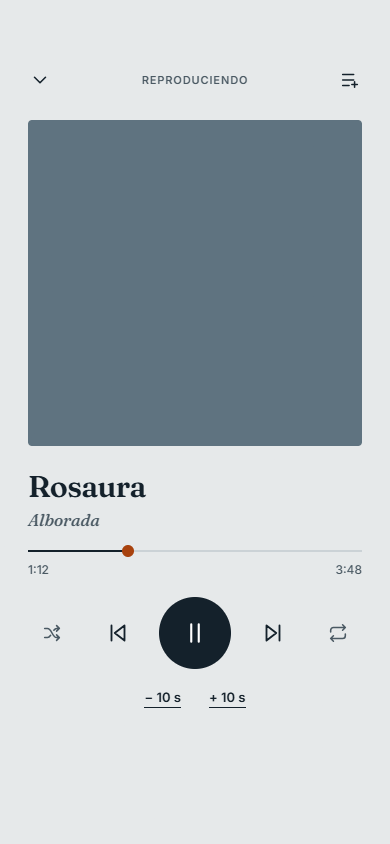
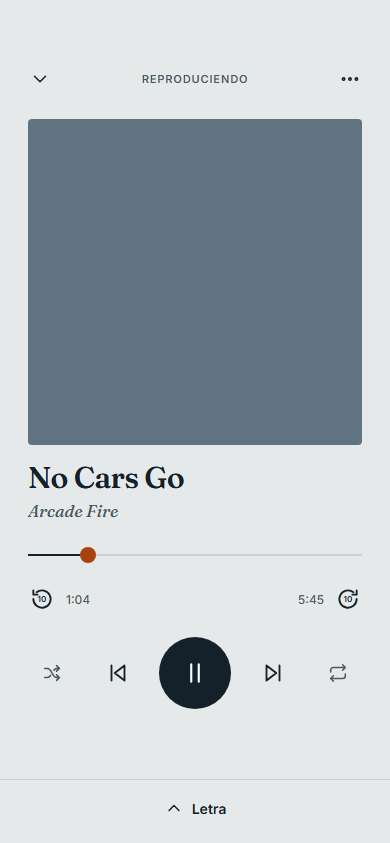
Refactor code structure for improved readability and maintainability

diff --git a/src/content/blog/musicdown-v2-expo-audio-player-spotify-likes/index.md b/src/content/blog/musicdown-v2-expo-audio-player-spotify-likes/index.md
@@ -1,9 +1,10 @@
 ---
 title: 'MusicDown, Four Months Later: One Player, Two Engines, and Buttons That Lie'
 date: 2026-11-04
+updated: 2026-11-05
 author: Cristhian Wiki
 tags: ['expo', 'react-native', 'android', 'spotify', 'design']
-excerpt: 'The MP3 downloader grew into a full music app: a redesign drawn before it was coded, Spotify likes without the Spotify API, a player that switches engines per track, and a few tricks to make the lock screen cooperate.'
+excerpt: 'The MP3 downloader grew into a full music app: a redesign drawn before it was coded, Spotify likes without the Spotify API, a player that switches engines per track, playlists, and a few tricks to make the lock screen cooperate.'
 cover: ./images/two-engines.svg
 seoTitle: 'MusicDown v2: Expo Audio Player, Spotify Likes & Widgets'
 seoDescription: 'How an Expo MP3 downloader became a full music app: Spotify likes via Spicetify, a dual-engine player, lock-screen hacks and Android home-screen widgets.'
@@ -24,11 +25,12 @@ screen, and getting a notification button to do what its icon says.
 | --- | --- | --- |
 | Tabs | Descargar · YouTube · Música · Ajustes | Música · Spotify · Descargar · Ajustes |
 | Look | System fonts, emoji icons, white | Fraunces + Inter, Feather icons, one accent color |
-| Player | Per-screen controls | One global player: mini bar, full screen, queue, shuffle, repeat |
-| Spotify | — | Liked songs synced from my laptop, playable without downloading |
+| Player | Per-screen controls | One global player: mini bar, full screen, lyrics, queue, shuffle, repeat |
+| Spotify | — | Liked songs synced both ways with my laptop, playable without downloading |
+| Library | Downloads only | Playlists and "Me Gustan", backed up to the server |
 | Lock screen | — | Media notification with previous / play / next |
-| Home screen | — | Seven widget variants |
-| Extras | — | Synced lyrics, private downloads, share as `.mp3` |
+| Home screen | — | Nine widget variants |
+| Extras | — | Cover-tinted player, battery saver, offline mode, private downloads |
 
 ## The redesign
 
@@ -93,6 +95,13 @@ It also listens for library `update` events, so a new like is synced three secon
 
 ![The Spotify tab: liked songs synced from the laptop, one of them resolving audio in the mini player](./images/screen-spotify.png)
 
+The sync now works in the other direction too. Deleting a liked song in the app calls
+`DELETE /api/spotify-likes/:id`, and the server adds the id to a list of pending removals. While
+Spotify is open, the extension checks that list every minute (and before each sync), removes
+those songs from my real Spotify library, and confirms to the server. Until that confirmation
+arrives, the server filters the removed ids out of incoming syncs, so a deleted song doesn't come
+back. Removing likes from Spotify can be turned off in the extension's settings.
+
 On the phone the list is cached for offline use. The first version stored it in AsyncStorage,
 which on Android fails to read values larger than about 2 MB, so large libraries stopped loading.
 The cache is now a JSON file in the app's document directory.
@@ -103,31 +112,38 @@ A liked song is just a title and an artist, so the app has to find the audio. I 
 behave like a downloaded song: same mini player, same queue, same lock-screen controls. A single
 `BackgroundPlayerProvider` picks an engine per track:
 
-![Player architecture: downloaded files go straight to expo-audio; Spotify likes go through the server's /api/stream when it's reachable, or a hidden YouTube WebView anchored by a looping silent audio file when it isn't](./images/two-engines.svg)
+![Player architecture: downloaded files go straight to expo-audio; Spotify likes play through a hidden YouTube WebView anchored by a looping silent audio file, or through the server's /api/stream when server streaming is enabled and reachable](./images/two-engines.svg)
 
 **Downloaded files** play through `expo-audio`.
 
-**Spotify likes** first check whether the server is up (2.5 s timeout). If it is, the app calls a
-new endpoint, `/api/stream?q=artist title`. The server runs `yt-dlp "ytsearch1:artist title"`,
-saves the audio to a disk cache keyed by a hash of the query (60 files max, oldest evicted first),
-and serves it with `res.sendFile`, which handles range requests. Concurrent requests for the same
-song share one download.
-
-Before passing the URL to the native player, the app sends its own `Range: bytes=0-0` request
-with a 70 s timeout. That makes the server finish downloading first, so the player gets an
-immediate response instead of hitting its own, shorter timeout. If `expo-audio` still hasn't
-loaded after 20 s, the track falls back to the second engine.
-
-**The second engine** is a hidden WebView. It opens `m.youtube.com/results?search_query=…`, an
-injected script picks the first real result (skipping promoted videos and Shorts), and the app
-controls the `<video>` element through two globals, `__mdSetDesired('play' | 'pause')` and
-`__mdSeek(seconds)`. Once per second the script reports position, duration and whether an ad is
-playing, which is how the mini player can show *Anuncio*.
+**Spotify likes** play by default through a hidden WebView. It opens
+`m.youtube.com/results?search_query=…`, an injected script picks the first real result (skipping
+promoted videos and Shorts), and the app controls the `<video>` element through two globals,
+`__mdSetDesired('play' | 'pause')` and `__mdSeek(seconds)`. Once per second the script reports
+position, duration and whether an ad is playing, which is how the mini player can show *Anuncio*.
 
 My first attempt hid the WebView with `width: 0` and `display: none`, and Chromium wouldn't play
 anything. It now stays mounted at 360×640 with `opacity: 0`.
 
-![The full-screen player: large cover, serif title, scrubber with a rust handle, shuffle, previous, play, next, repeat and ±10 s](./images/screen-now-playing.png)
+**Server streaming** is an option in Ajustes. When it's on and the server answers a health check
+within 2.5 s, the app calls `/api/stream?q=artist title`. The server runs
+`yt-dlp "ytsearch1:artist title"`, saves the audio to a disk cache keyed by a hash of the query
+(60 files max, oldest evicted first), and serves it with `res.sendFile`, which handles range
+requests. Concurrent requests for the same song share one download.
+
+Before passing that URL to the native player, the app sends its own `Range: bytes=0-0` request
+with a 70 s timeout. That makes the server finish downloading first, so the player gets an
+immediate response instead of hitting its own, shorter timeout. If `expo-audio` still hasn't
+loaded after 20 s, the track falls back to the WebView.
+
+![The full-screen player: large cover, serif title, scrubber with a rust handle, ±10 s buttons next to the times, shuffle, previous, play, next, repeat, and a "Letra" bar at the bottom](./images/screen-now-playing.png)
+
+The full-screen player can also tint its background with the cover's color (Ajustes → Temas).
+`coverColor.ts` decodes the image in JavaScript (`jpeg-js` or `upng-js`), takes about 4,000
+samples and picks the most saturated hue, ignoring whites, blacks and greys. Averaging the pixels
+usually gives a muddy brown. The hue is then turned into a light pastel, whatever the cover looks
+like, so the dark text stays readable. Colors for the next tracks in the queue are computed
+ahead of time, so the background can fade to the new color as soon as the song changes.
 
 ## Keeping the WebView playing with the screen off
 
@@ -169,6 +185,11 @@ and cover. The audio mode is set to `mixWithOthers` so the silent track doesn't 
 from the WebView. Both stay in sync: when one pauses, so does the other, and a pause from the lock
 screen is forwarded to the WebView with `__mdSetDesired('pause')`.
 
+The same silent player now has a second job. With the screen off, Android suspends apps that
+don't have a foreground service, which used to stall bulk downloads of liked songs. During a
+batch download, if nothing is playing, the silent track starts with a "Descargando…" media
+notification, and the app keeps running and keeps network access until the batch ends.
+
 ## Buttons that lie
 
 In this version, `expo-audio` lock-screen controls only offer **seek backward** and **seek
@@ -198,10 +219,58 @@ song when it's past five seconds, the ten seconds it already rewound don't matte
 WebView engine, the jump is detected on the silent track, because that's the one the lock screen
 controls.
 
+## Lyrics
+
+Lyrics come from [LRCLIB](https://lrclib.net), a free API with no key. YouTube titles are noisy,
+so the query strips things like `(Official Video)` or `feat.`, tries splitting "Artist - Song",
+and prefers results with timestamps and a duration close to the song's.
+
+![The lyrics view: past lines faded, the current line large and dark, upcoming lines in mid grey, with the scrubber and a mini player at the bottom](./images/screen-lyrics.png)
+
+The lyrics view uses three levels: past lines faded, the current line large and dark, upcoming
+lines in mid grey. It follows the song until you scroll; then a "Línea actual" button appears,
+and following resumes on its own six seconds after you stop touching the screen. Tapping a line
+shows a button with its timestamp (▶ 2:55) that jumps there. Lyrics without timestamps get an
+approximate time based on the line's position in the song.
+
+Two caching rules: a cancelled request is never stored, and neither is a request where every call
+failed, which means no network rather than no lyrics. In both cases the song gets another chance
+next time.
+
+## Playlists that survive a reinstall
+
+The Música tab now has a third view, **Listas**, next to "Mis descargas" and "Todas". There's an
+automatic "Me Gustan" playlist: double-tapping the cover in the player adds or removes the song
+(with an undo toast), and a rust heart next to the title shows when it's in the list.
+
+A playlist entry doesn't depend on the song's file. It's keyed by the Spotify id, the download id
+or the external file id, and stores the title, artist and cover. If a file disappears, for
+example after reinstalling, the song stays in the list. If it's a Spotify like, it can be streamed or downloaded again; if
+there's no way to play it, it's skipped.
+
+Every change is backed up to the server (`PUT /api/library-backup`, 3 s debounce, only while the
+server is reachable). On a fresh install with no local playlists, the app restores the server
+backup. Until that restore has been attempted, nothing is uploaded. Otherwise a new install would
+overwrite a good backup with an empty list on its first sync.
+
+## Doing less when nobody's looking
+
+Music often plays for hours with the screen off, so the player avoids work nobody will see:
+
+- Native player events are handled outside React: end of track and lock-screen buttons work with
+  the screen on or off, but React state only updates while the app is in the foreground, and at
+  most once per interval except for important changes (play/pause, load, end).
+- Player events arrive once per second instead of the default 500 ms.
+- **Battery saver** (on by default) updates the progress bar every 2 s and freezes animations such
+  as the equalizer icon and loading dots.
+- **Offline mode** turns off everything that uses the network: server pings, syncs, downloads,
+  lyrics lookups, cover searches and YouTube. Only what's on the phone plays.
+
 ## Home-screen widgets
 
-MusicDown includes seven widget variants built with `react-native-android-widget`: 4×2 and 4×1
-(each solid, semi-translucent or transparent) and 2×2, with Fraunces bundled for the titles.
+MusicDown has nine widget variants built with `react-native-android-widget`: a 4×1 row and a 4×2
+medium layout (each solid, semi-translucent or transparent), 4×2 and 4×4 cover layouts, and a
+2×2 square, with Fraunces bundled for the titles.
 
 Widgets run in a separate headless task, so the player publishes the current track to a small
 bridge module that re-renders them and saves the state. After a cold start, the widget shows the
@@ -213,15 +282,15 @@ once the new one is ready.
 
 ## Smaller changes
 
-- **Synced lyrics** from [LRCLIB](https://lrclib.net), a free API with no key. The query strips
-  noise like `(Official Video)` or `feat.` from YouTube titles, tries splitting "Artist - Song",
-  and prefers results with timestamps and a matching duration. Cancelled requests are never
-  cached as "no lyrics".
 - **Private downloads by default**: files go to the app's private storage with a `.zc3` extension
   and aren't added to the system media library. Sharing a song sends a temporary
   `Artist - Title.mp3` copy. A setting in Ajustes restores the old behavior.
-- **Offline likes**: any liked song can be downloaded, individually or in bulk. A batch stops
-  after three consecutive failures, which usually means the server is down.
+- **Offline likes**: any liked song can be downloaded, individually or in bulk. The first YouTube
+  result for a search is sometimes an hour-long mix, so the server asks for eight candidates and
+  takes the first one between 45 seconds and 15 minutes long. A batch stops after three
+  consecutive failures, which usually means the server is down.
+- **Files from the Music folder** now show their real title, artist and cover. A small ID3v2
+  reader parses only the start of each file, where the tag lives, instead of the whole MP3.
 - **Server status**: the app pings the server on launch and when returning to the foreground, and
   disables features that depend on it. Local playback never does. `npm run start:tunnel` runs the
   server behind a Cloudflare quick tunnel, so the phone also works away from my home network.
@@ -237,6 +306,8 @@ sessions, window visibility, and notification buttons. Most of the fixes in this
 misleading one of those layers: a page that reports itself as visible, a silent file standing in
 for the music, a seek button acting as "next".
 
-One limitation remains. When a song falls back to the WebView engine, lock-screen controls only
-take effect once the app is back in the foreground, because React Native doesn't deliver commands
-to views while the app is paused. That's why the server path goes first.
+One limitation remains. With the WebView engine, lock-screen and widget controls only take
+effect once the app is back in the foreground, because React Native doesn't deliver commands to
+views while the app is paused. Server streaming doesn't have that problem, since `expo-audio`
+responds in the background, but it needs the server running. That's the trade-off behind the
+setting.
